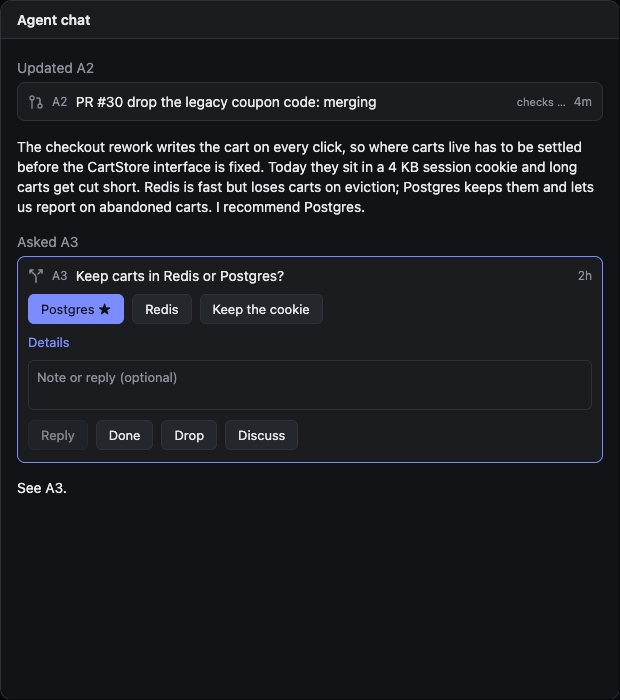
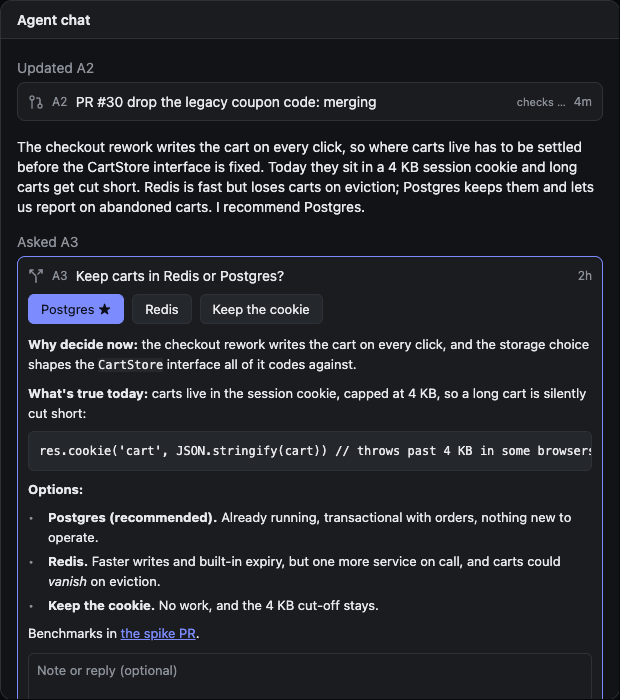
feat(client): show ask bodies in chat by default, with a setting to fold them (#13)
* fix(client): always show an ask's body in chat cards

* feat(client): add a setting to fold ask bodies in chat cards

---------

diff --git a/client/AsksView.tsx b/client/AsksView.tsx
@@ -1,10 +1,11 @@
 import type { PluginTheme } from "@getpaseo/plugin";
-import { useAgent, useRpc } from "@getpaseo/plugin/client";
+import { useAgent, useRpc, useSettings } from "@getpaseo/plugin/client";
 import { Icon, ScrollView, TextInput, useToast } from "@getpaseo/plugin/client/react-native";
 import { useMutation, useQuery, useQueryClient } from "@tanstack/react-query";
 import { useMemo, useState } from "react";
 import { Pressable, Text, View } from "react-native";
 import { actOnAsk, discussAsk, listAsks, refreshAsks, type Action, type Ask, type PrState } from "../shared/asks";
+import { displaySettings } from "../shared/settings";
 import type { AskCard as AskCardData } from "../shared/timeline";
 import { Markdown, openLink } from "./Markdown";
 
@@ -137,7 +138,7 @@ const VERBS: Record<AskCardData["verb"], string> = { create: "Asked", update: "U
 
 /**
  * An ask shown in the agent chat where the agent created, updated or resolved it. Open asks start expanded.
- * The chat around it already explains the ask, so its buttons come first and its body folds behind "Details".
+ * The chat around it already explains the ask, so its buttons come first, then its body, folded if the setting says so.
  */
 export function AskCard(
   props: { theme: PluginTheme; compact: boolean; agentId: string; openAgent?: (agentId: string) => void } & AskCardData,
@@ -150,6 +151,7 @@ export function AskCard(
   const ask = asks.data?.asks.find((candidate) => candidate.workspaceId === workspaceId && candidate.id === askId);
   const [toggled, setToggled] = useState<boolean | null>(null);
   const expanded = toggled ?? ask?.status === "open";
+  const settings = useSettings(displaySettings);
 
   const note = !workspaceId || asks.isPending ? "loading…" : asks.isError ? "could not load" : !ask ? "not found" : null;
   return (
@@ -167,7 +169,8 @@ export function AskCard(
           onToggle={() => setToggled(!expanded)}
           openAgent={openAgent}
           viewingAgentId={agentId}
-          foldBody
+          actionsFirst
+          foldBody={settings.status === "ready" && settings.values.foldChatBodies}
         />
       )}
     </View>
@@ -183,6 +186,7 @@ function AskRow(props: {
   openAgent?: (agentId: string) => void;
   /** The agent whose chat this is shown in, so "Open chat" does not point at itself. */
   viewingAgentId?: string;
+  actionsFirst?: boolean;
   foldBody?: boolean;
 }) {
   const { ask, styles, theme, expanded } = props;
@@ -214,6 +218,7 @@ function AskDetail({
   theme,
   openAgent,
   viewingAgentId,
+  actionsFirst = false,
   foldBody = false,
 }: {
   ask: Ask;
@@ -221,14 +226,17 @@ function AskDetail({
   theme: PluginTheme;
   openAgent?: (agentId: string) => void;
   viewingAgentId?: string;
-  /** Show the action buttons first and the body only on request. */
+  /** Show the action buttons above the body. */
+  actionsFirst?: boolean;
+  /** Keep the body behind a "Details" link. */
   foldBody?: boolean;
 }) {
   const act = useRpc(actOnAsk);
   const queryClient = useQueryClient();
   const toast = useToast();
   const [note, setNote] = useState("");
-  const [bodyShown, setBodyShown] = useState(!foldBody);
+  const [bodyOpened, setBodyOpened] = useState(false);
+  const bodyShown = !foldBody || bodyOpened;
   const mutation = useMutation({
     mutationFn: (input: { verb: "action" | "done" | "drop" | "reply"; actionId?: string }) =>
       act({ workspaceId: ask.workspaceId, id: ask.id, note, ...input }),
@@ -271,10 +279,10 @@ function AskDetail({
 
   return (
     <View style={styles.detail}>
-      {foldBody && actions}
+      {actionsFirst && actions}
       {foldBody && ask.bodyBlocks?.length ? (
-        <Pressable accessibilityRole="button" onPress={() => setBodyShown(!bodyShown)}>
-          <Text style={styles.link}>{bodyShown ? "Hide details" : "Details"}</Text>
+        <Pressable accessibilityRole="button" onPress={() => setBodyOpened(!bodyOpened)}>
+          <Text style={styles.link}>{bodyOpened ? "Hide details" : "Details"}</Text>
         </Pressable>
       ) : null}
       {bodyShown && ask.bodyBlocks?.length ? <Markdown blocks={ask.bodyBlocks} theme={theme} /> : null}
@@ -287,7 +295,7 @@ function AskDetail({
       {ask.orphaned && (
         <Text style={styles.orphaned}>The agent that raised this is archived. Closing it here notifies nobody.</Text>
       )}
-      {!foldBody && actions}
+      {!actionsFirst && actions}
       <TextInput
         value={note}
         onChangeText={setNote}

diff --git a/client/SettingsScreen.tsx b/client/SettingsScreen.tsx
@@ -1,0 +1,24 @@
+import type { PluginSurfaceProps } from "@getpaseo/plugin/client";
+import { useSettings } from "@getpaseo/plugin/client";
+import { SettingsCard, SettingsSection, SettingsSwitch } from "@getpaseo/plugin/client/ui";
+import { displaySettings } from "../shared/settings";
+
+export function SettingsScreen(_props: PluginSurfaceProps) {
+  const settings = useSettings(displaySettings);
+  return (
+    <SettingsSection title="Display">
+      <SettingsCard>
+        <SettingsSwitch
+          label="Fold ask details in chat"
+          hint="Keep an ask's text behind a Details link in chat cards. The Asks panel always shows it."
+          value={settings.status === "ready" && settings.values.foldChatBodies}
+          disabled={settings.status !== "ready" || settings.saving}
+          error={settings.saveError ?? undefined}
+          onValueChange={(foldChatBodies) => {
+            if (settings.status === "ready") void settings.save({ foldChatBodies }, settings.revision);
+          }}
+        />
+      </SettingsCard>
+    </SettingsSection>
+  );
+}

diff --git a/index.client.tsx b/index.client.tsx
@@ -11,6 +11,7 @@ import { SidebarRow } from "@getpaseo/plugin/client/ui";
 import { useEffect } from "react";
 import { Text } from "react-native";
 import { AgentAsks, AskCard, AsksView, POLL_MS, useAsks } from "./client/AsksView";
+import { SettingsScreen } from "./client/SettingsScreen";
 import { listAsks } from "./shared/asks";
 import { ASK_CARD, AskCardSchema, askCardFor, type AskCard as AskCardData } from "./shared/timeline";
 
@@ -157,6 +158,7 @@ export default function contribute(client: PluginClientContext) {
   openAgentViaScreen = (agentId) => client.openScreen({ screenId: "asks", params: { open: agentId } });
   client.addWorkspacePanel({ id: "asks", title: "Asks", icon: "Inbox", context: "workspace", Component: WorkspacePanel });
   client.addScreen({ id: "asks", title: "Asks", Component: GlobalScreen });
+  client.addSettingsScreen({ id: "asks", title: "Asks", icon: "Inbox", Component: SettingsScreen });
   client.addSidebarHeaderItem({ id: "asks", title: "Asks", Component: SidebarItem });
   client.addCommandCenterItem({
     id: "open-asks",

diff --git a/index.server.ts b/index.server.ts
@@ -16,11 +16,13 @@ import { AsksService, INSTRUCTIONS, TOOLS } from "./server/service";
 import { AskStore } from "./server/store";
 import { PrWatcher } from "./server/watcher";
 import { activeWorkspaces } from "./server/workspaces";
+import { displaySettings } from "./shared/settings";
 
 const FLUSH_EVERY_MS = 20_000;
 const PR_EVERY_MS = 120_000;
 
 export default function contribute(server: PluginServerContext) {
+  server.registerSettings(displaySettings);
   const dir = dataDir();
   const mcp = installBridge(dir);
   // The daemon session behind `paseo` lives as long as this subprocess; any hook or handler hands it over.

diff --git a/preview/mocks/client.tsx b/preview/mocks/client.tsx
@@ -24,3 +24,7 @@ export function useAgent<T>(_agentId: string, selector: (agent: { workspaceId: s
 export async function openExternalUrl(url: string) {
   console.log("openExternalUrl", url);
 }
+
+export function useSettings() {
+  return { status: "ready" as const, values: { foldChatBodies: false } };
+}

diff --git a/shared/settings.ts b/shared/settings.ts
@@ -1,0 +1,9 @@
+import { defineSettings } from "@getpaseo/plugin";
+import { z } from "zod";
+
+export const displaySettings = defineSettings({
+  id: "display",
+  scope: "host",
+  version: 1,
+  schema: z.object({ foldChatBodies: z.boolean().default(false) }),
+});

diff --git a/preview/mocks/plugin.ts b/preview/mocks/plugin.ts
@@ -1,1 +1,2 @@
 export const defineRpc = <T,>(definition: T) => definition;
+export const defineSettings = <T,>(definition: T) => definition;

diff --git a/AGENTS.md b/AGENTS.md
@@ -6,7 +6,7 @@ Paseo plugin: agents record what they need from the human (asks) via MCP; Paseo 
 
 - `index.server.ts` wires everything. `server/`: `store` (one JSON per workspace), `outbox` (disk-backed, holds messages until the agent's turn ends), `service` (MCP tools + human actions + agent instructions), `bridge` (stdio MCP script, written to the data dir at start), `listener` (localhost HTTP the bridge calls), `agents` (agentId → workspaceId), `discuss` (read-only side chat, child of the owner), `github` + `watcher` (live PR state via `gh`, subscriptions), `last-output` (each agent's latest reply, seeds side chats).
 - `client/` + `index.client.tsx`: React Native only (runs on mobile). Colors from `theme.colors`. Open URLs with `openExternalUrl` (default browser); `window.open` opens an unauthenticated in-app Paseo window. Client code can import only host modules, so ask bodies are parsed on the server (`server/markdown.ts`, mdast + GFM) and `asks.list` returns them as `bodyBlocks` (`shared/markdown.ts`); the client only renders them, showing unknown blocks as source.
-- `shared/asks.ts`: Zod schemas and RPC contracts.
+- `shared/asks.ts`: Zod schemas and RPC contracts. `shared/settings.ts`: host-wide display settings, edited in `client/SettingsScreen.tsx`.
 - `preview/`: own package.json; renders `client/` with react-native-web and mocked host modules for screenshots (`docs/*.png`). Not shipped.
 
 ## Load-bearing facts (Paseo 0.12)

diff --git a/OVERVIEW.md b/OVERVIEW.md
@@ -8,7 +8,7 @@ Every agent created after the plugin is installed gets an `asks` MCP server with
 
 - **Asks** panel in each workspace.
 - **Asks** screen in the sidebar, with every workspace's asks and a count of what is waiting.
-- Inline in the agent's chat: each ask appears where the agent created, updated or resolved it, kept up to date, with open asks expanded and their buttons ready. Agents create the ask at the end of their reply, so the buttons sit right below the explanation, and the ask's full text is one tap away under Details.
+- Inline in the agent's chat: each ask appears where the agent created, updated or resolved it, kept up to date, with open asks expanded and their buttons ready. Agents create the ask at the end of their reply, so the buttons sit right below the explanation, with the ask's full text under them.
 - **Asks** pill in every agent's composer, showing its open count or "No asks". Pressing it lists that agent's asks and offers **Refresh asks**, which tells the agent to bring them up to date.
 
 From an ask you can pick one of its actions, reply with a note, mark it done or drop it, or open a side chat to talk it through. The side chat starts read-only and already has the ask in context. When you settle it there, the main agent gets the outcome as one message. PR asks show live status from `gh` when `gh` is installed. An agent can subscribe to be told when its PR merges, closes, or its checks change.

diff --git a/README.md b/README.md
@@ -24,7 +24,7 @@ PR asks show live status from `gh`: open, merged or closed, checks, review decis
 
 - an **Asks** panel in each workspace (also in ⌘K: "Open asks for this workspace");
 - an **Asks** screen in the sidebar, covering every workspace, with a count of what's waiting;
-- **inline in the agent's chat**, where it called `ask_create`, `ask_update` or `ask_resolve`: the tool row becomes the ask itself, live, open asks expanded with their buttons first and the body behind **Details** (the chat around it already explains it). Agents are told to create the ask as the last step of their turn, so the buttons land right below their summary;
+- **inline in the agent's chat**, where it called `ask_create`, `ask_update` or `ask_resolve`: the tool row becomes the ask itself, live, open asks expanded with their buttons first, then the body (**Settings → Plugins → Asks** can fold the body behind a **Details** link). Agents are told to create the ask as the last step of their turn, so the buttons land right below their summary;
 - an **Asks · n** (or **No asks**) pill in every agent's composer. Pressing it lists that agent's asks, with a **Refresh asks** button that tells the agent to bring them up to date: create asks it skipped, and update or resolve stale ones.
 
 ## How it works
